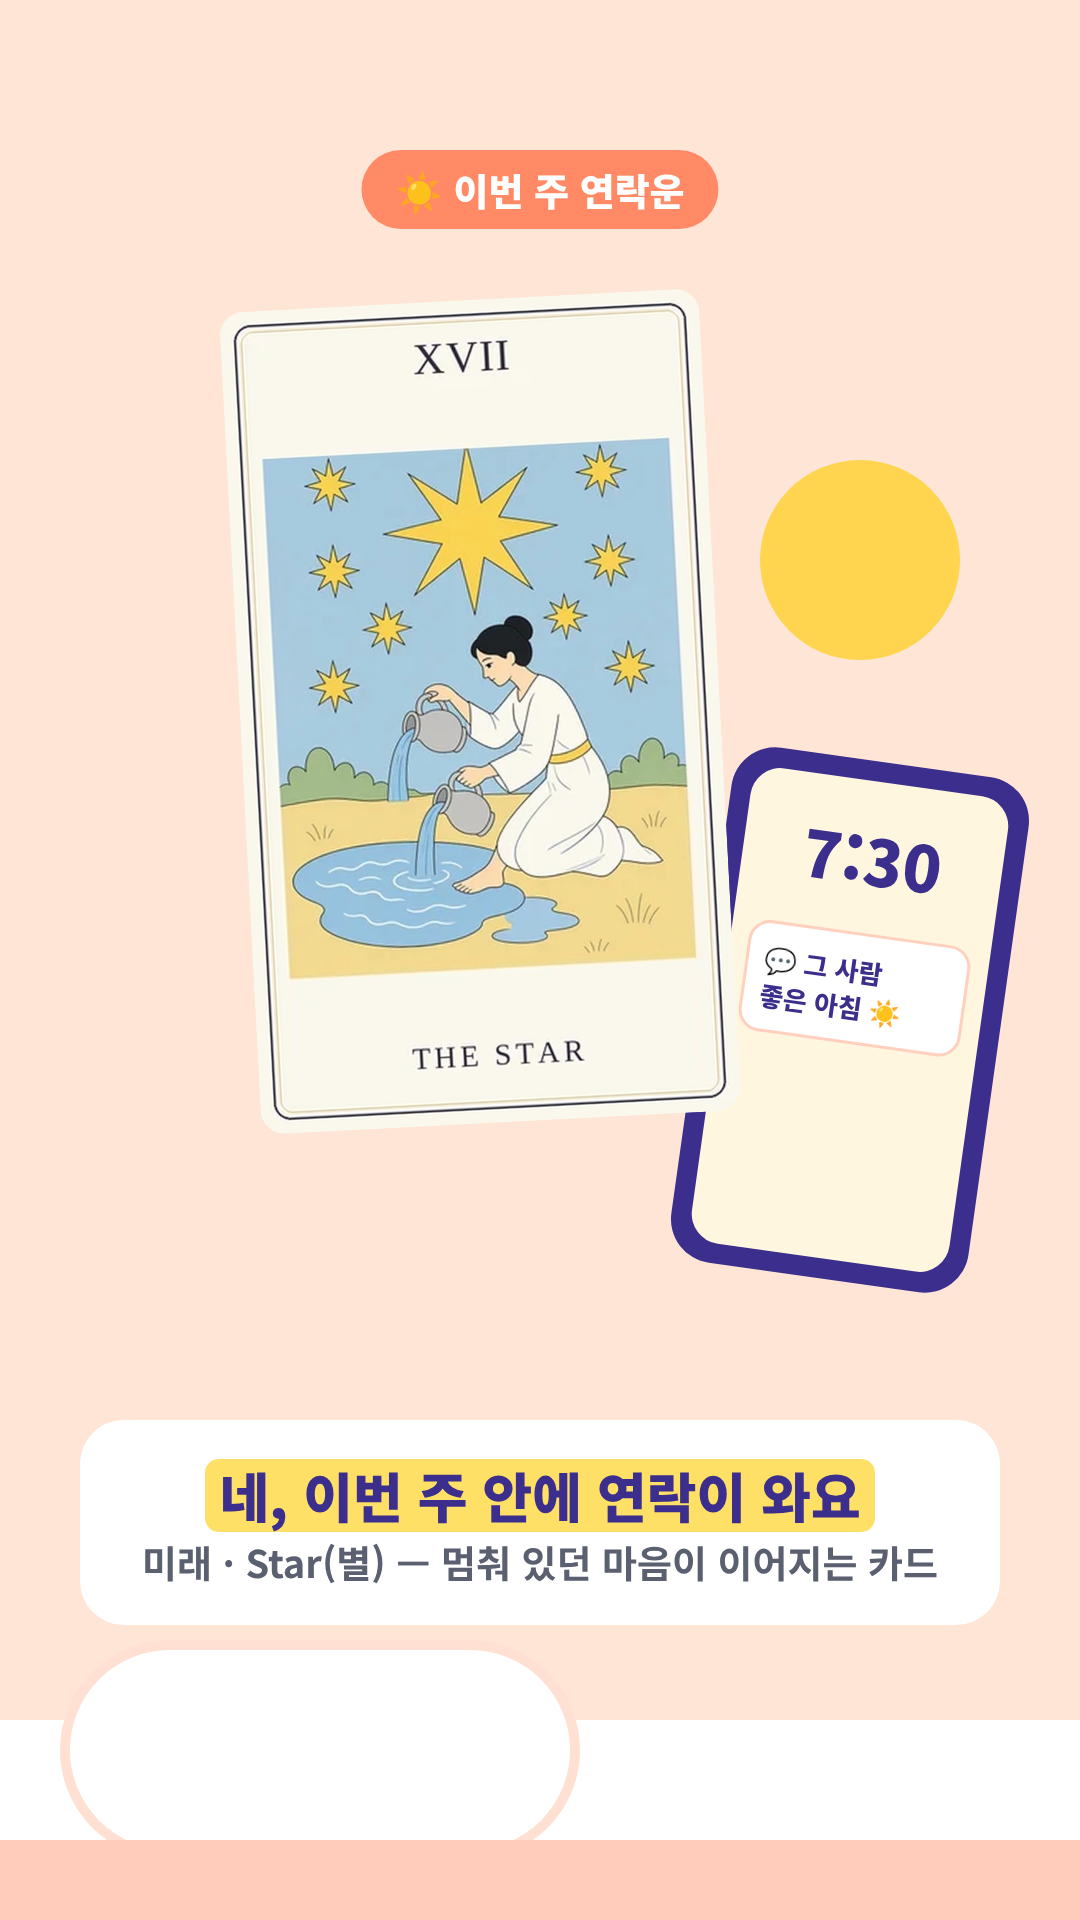
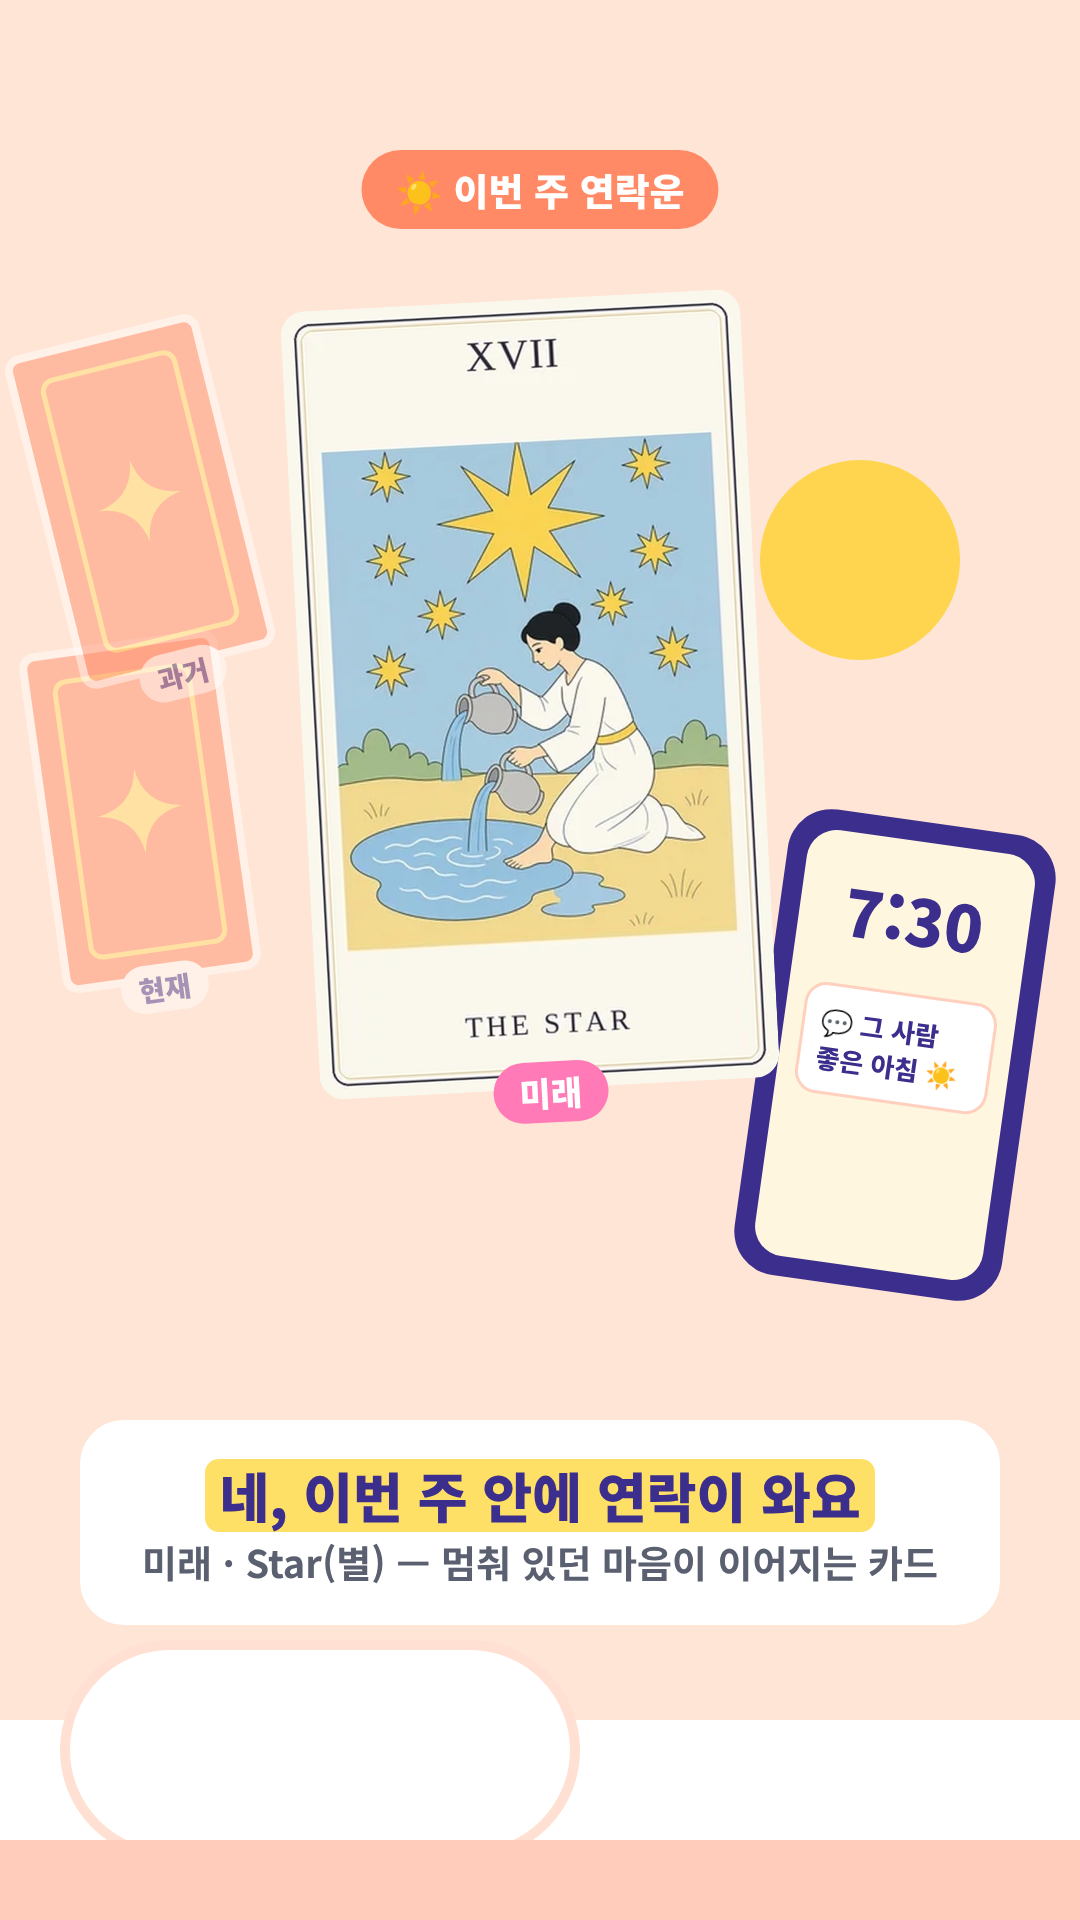
아침 디자인 2: 미래 카드 왼편에 흐린 과거 · 현재 카드
Claude-Session: https://claude.ai/code/session_01CejgdC5FKbbZMnpaYgrfgJ

Changed region(s): [[0.0, 0.1562, 0.9778, 0.6875]]

diff --git a/promo/src/morning_2_answer.html b/promo/src/morning_2_answer.html
@@ -22,7 +22,12 @@
 .phone .tm{text-align:center;font-size:64px;font-weight:900;color:#3B2E8C}
 .phone .nt{margin-top:30px;background:#FFF;border-radius:22px;padding:16px;font-size:26px;font-weight:800;color:#3B2E8C;box-shadow:none;border:3px solid #FFD0BE}
 .sunw{position:absolute;left:760px;top:460px;width:200px;height:200px;border-radius:50%;background:#FFD54F}.bed{top:1720px}.pillow{top:1640px;left:60px}.blanket{top:1840px}
+.mini2{position:absolute;width:200px;opacity:.45;z-index:3}
+.mini2 .tcard{border:0;border-radius:12px;background:none}
+.mini2 b{position:absolute;left:50%;bottom:-30px;translate:-50% 0;padding:4px 18px;border-radius:999px;background:#FFF;font-size:28px;font-weight:900;color:var(--ink)}
+.cd::after{content:"미래";position:absolute;left:50%;bottom:-34px;translate:-50% 0;padding:6px 26px;border-radius:999px;background:#FF7AB6;color:#FFF;font-size:34px;font-weight:900}
 </style></head><body>
 <div class="f" id="frame">
-<span class="bd">☀ 이번 주 연락운</span><div class="sunw"></div><div class="bed"></div><div class="pillow"></div><div class="blanket"></div><div class="cd" style="top:300px;width:480px;margin-left:-300px"><img class="tcard" src="cards/tr17@2x.jpg" alt="Star(별)" style="border:0;border-radius:24px;background:none"></div><div class="phone" style="top:760px;left:700px"><div class="sc"><div class="tm">7:30</div><div class="nt">💬 그 사람<br>좋은 아침 ☀</div></div></div><div class="ans" style="top:1420px"><span class="mk">네, 이번 주 안에 연락이 와요</span><small>미래 · Star(별) — 멈춰 있던 마음이 이어지는 카드</small></div>
+<span class="bd">☀ 이번 주 연락운</span><div class="sunw"></div><div class="bed"></div><div class="pillow"></div><div class="blanket"></div><div class="mini2" style="left:40px;top:640px;rotate:-8deg"><div class="bk" style="background:#FF8A65;border-width:8px;border-radius:16px"><svg viewBox="0 0 10 10"><path d="M5 0Q5.6 4.4 10 5Q5.6 5.6 5 10Q4.4 5.6 0 5Q4.4 4.4 5 0z" fill="#FFE066"/></svg></div><b>현재</b></div><div class="mini2" style="left:40px;top:330px;rotate:-14deg"><div class="bk" style="background:#FF8A65;border-width:8px;border-radius:16px"><svg viewBox="0 0 10 10"><path d="M5 0Q5.6 4.4 10 5Q5.6 5.6 5 10Q4.4 5.6 0 5Q4.4 4.4 5 0z" fill="#FFE066"/></svg></div><b>과거</b></div>
+<div class="cd" style="top:300px;width:460px;left:300px;margin-left:0"><img class="tcard" src="cards/tr17@2x.jpg" alt="Star(별)" style="border:0;border-radius:24px;background:none"></div><div class="phone" style="top:820px;left:760px;width:270px;height:470px"><div class="sc"><div class="tm">7:30</div><div class="nt">💬 그 사람<br>좋은 아침 ☀</div></div></div><div class="ans" style="top:1420px"><span class="mk">네, 이번 주 안에 연락이 와요</span><small>미래 · Star(별) — 멈춰 있던 마음이 이어지는 카드</small></div>
 </div></body></html>
